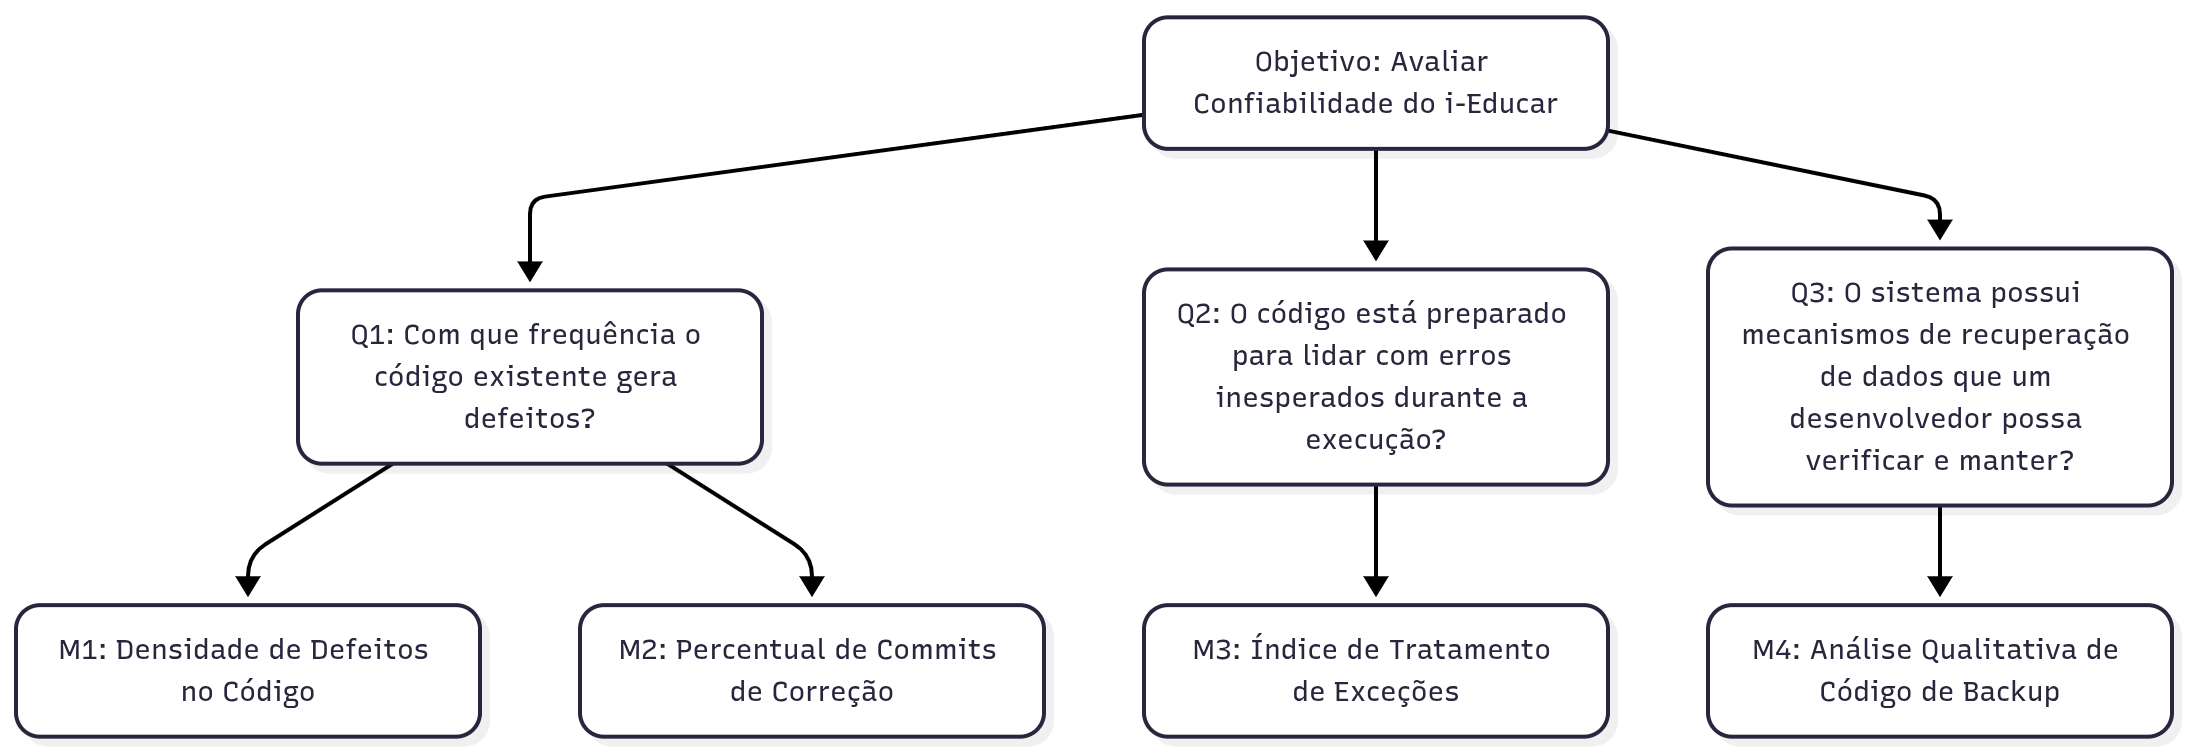
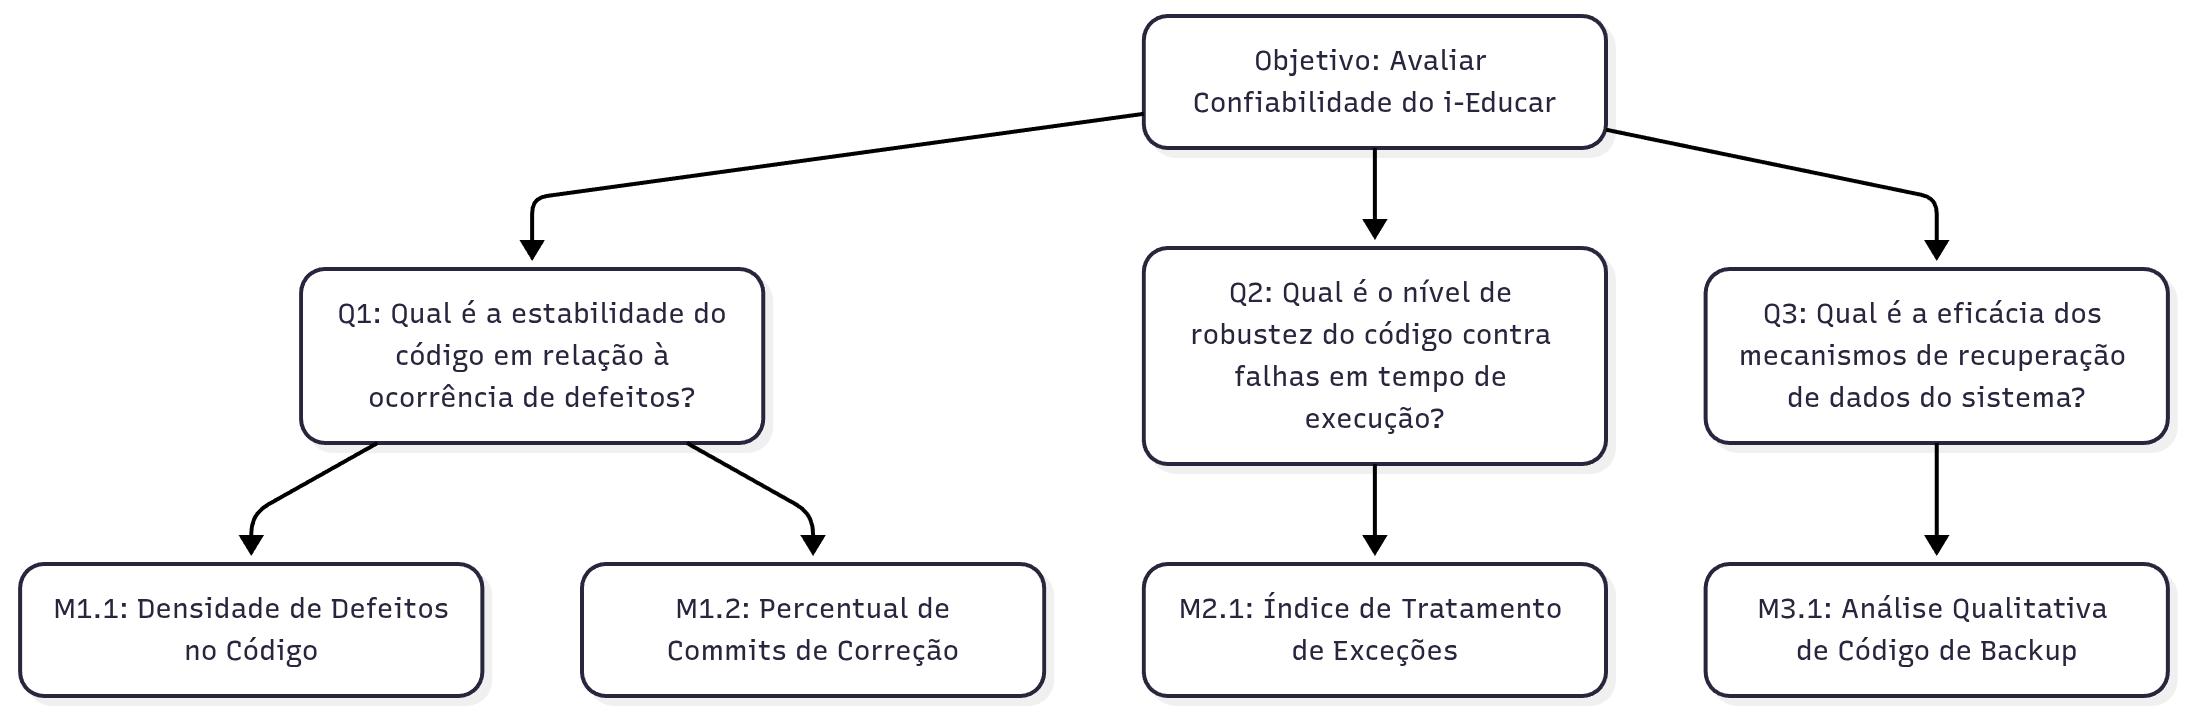
atualização da seção de confiabilidade: inclusão de critérios de julgamento e diagrama atualizado

diff --git a/docs/fase_2/gqm_confiabilidade.md b/docs/fase_2/gqm_confiabilidade.md
@@ -1,11 +1,29 @@
 ## Objetivo de Medição 1: Confiabilidade
 
-| **Analisar**          | o i-Educar |
-|------------------------|------------|
-| **Para o propósito de** | Avaliar|
-| **Com respeito a**     | Confiabilidade |
-| **Do ponto de vista da** | Comunidade de desenvolvedores |
-| **No contexto da**     | Disciplina de Qualidade de Software |
+<div align="center">
+  <table border="1" cellspacing="0" cellpadding="8" style="border-collapse: collapse; text-align: left;">
+    <tr>
+      <th><b>Analisar</b></th>
+      <td>o i-Educar</td>
+    </tr>
+    <tr>
+      <th><b>Para o propósito de</b></th>
+      <td>Avaliar</td>
+    </tr>
+    <tr>
+      <th><b>Com respeito a</b></th>
+      <td>Confiabilidade</td>
+    </tr>
+    <tr>
+      <th><b>Do ponto de vista da</b></th>
+      <td>Comunidade de desenvolvedores</td>
+    </tr>
+    <tr>
+      <th><b>No contexto da</b></th>
+      <td>Disciplina de Qualidade de Software 1 (FCTE - UnB)</td>
+    </tr>
+  </table>
+</div>
 
 <div align="center">
   <font size="4"><figcaption>Tabela 1: Objetivo de Medição: Confiabilidade</figcaption></font>
@@ -61,6 +79,12 @@ A professora achou que tinha muita coisa
         1. Listar todas as issues com a label `bug` via API do GitHub ou busca manual.
         2. Contar as linhas de código PHP (`.php`) para os módulos priorizados (Escola, Servidores, Educacenso) e para o restante do sistema separadamente, utilizando a ferramenta `cloc`.
         3. Aplicar a fórmula para os dois escopos (prioritários vs. não prioritários) e comparar os resultados para validar a **H1.1**.
+    * **Pontuação de Julgamento:** 
+
+        | **Excelente** | **Bom** | **Regular** | **Insatisfatório** |
+        |:--------------:|:--------:|:-------------:|:-------------------:|
+        | ≤ 1 bug/KLOC | >1 e ≤3 bugs/KLOC | >3 e ≤6 bugs/KLOC | >6 bugs/KLOC |
+
     * **Propósito:** Identificar se as áreas mais críticas do sistema são também as que concentram mais defeitos reportados.
 
 * **Métrica 1.2: Percentual de Commits de Correção**
@@ -72,6 +96,13 @@ A professora achou que tinha muita coisa
         2. Contar o número total de commits com `git log --oneline | wc -l`
         3. Contar o número de commits de correção com `git log --grep="fix\|bugfix\|corrige\|correção\|hotfix" --regexp-ignore-case --oneline | wc -l.`
         4. Aplicar a fórmula para validar a **H1.2**.
+
+    * **Pontuação de Julgamento:** 
+
+        | **Excelente** | **Bom** | **Regular** | **Insatisfatório** |
+        |:--------------:|:--------:|:-------------:|:-------------------:|
+        | ≤ 10% | >10% e ≤20% | >20% e ≤35% | >35% |
+
     * **Propósito:** Avaliar se o esforço de desenvolvimento é mais reativo (corrigindo falhas) do que proativo (desenvolvendo novas funcionalidades).
 
 **Questão 2: Tolerância a Falhas**
@@ -85,6 +116,12 @@ A professora achou que tinha muita coisa
         2. Nos diretórios dos módulos priorizados, executar scripts de busca (`grep` ou `ack`) para contar o número total de ocorrências dessas operações.
         3. Executar um segundo script para contar quantas dessas ocorrências estão sintaticamente dentro de um bloco `try { ... }`.
         4. Aplicar a fórmula para validar a **H2.1**.
+    * **Pontuação de Julgamento:** 
+
+        | **Excelente** | **Bom** | **Regular** | **Insatisfatório** |
+        |:--------------:|:--------:|:-------------:|:-------------------:|
+        | ≥ 90% | 70%–89% | 40%–69% | < 40% |
+
     * **Propósito:** Medir a robustez do código contra erros em tempo de execução.
 
 **Questão 3: Recuperabilidade**
@@ -102,14 +139,76 @@ A professora achou que tinha muita coisa
             * **Configuração:** As configurações críticas (ex: caminhos de backup, credenciais) são externalizadas e não "hard-coded"?
             * **Testabilidade:** A estrutura do código permite a criação de testes unitários ou de integração?
         4. A pontuação final (0 a 10) será a soma dos pontos do checklist, usada para validar a **H3.1**.
+
+    * **Pontuação de Julgamento:** 
+
+        | **Excelente** | **Bom** | **Regular** | **Insatisfatório** |
+        |:--------------:|:--------:|:-------------:|:-------------------:|
+        | 9–10 | 7–8 | 4–6 | 0–3 |
+
     * **Propósito:** Avaliar a manutenibilidade e a confiabilidade percebida dos mecanismos de recuperação de dados do ponto de vista de um desenvolvedor.
+
+### Critérios para Julgamento
+
+* **Aceitável:** ≥ 70% das métricas classificadas como "Bom" ou "Excelente". O sistema demonstra robustez e previsibilidade.
+* **Parcialmente aceitável:** Entre 40% e 69% das métricas com nível "Regular" ou superior. O sistema funciona, mas pode apresentar instabilidades pontuais.
+* **Inaceitável:** > 30% das métricas atingindo o nível "Insatisfatório". A estabilidade do sistema é considerada crítica e propensa a falhas.
 
 ---
 
 ### Relação entre a Confiabilidade, Perguntas e Métricas
 
-![Relação entre a Confiabilidade, Perguntas e Métricas](../assets/diagrama_confiabilidade.png)
 
 <div align="center">
-  <font size="4"><figcaption>Figura 2: Diagrama ilustrando a relação entre a característica de Confiabilidade, as perguntas formuladas e as métricas definidas na abordagem GQM.</figcaption></font>
+  <table border="1" cellspacing="0" cellpadding="8" style="border-collapse: collapse; text-align: left;">
+    <tr>
+      <th><b>Questão</b></th>
+      <th><b>Métricas Simplificadas</b></th>
+      <th><b>Tipo de Coleta</b></th>
+    </tr>
+    <tr>
+      <td><b>Maturidade</b><br>Qual é a estabilidade do código em relação a defeitos?</td>
+      <td>
+        - Densidade de defeitos (issues "bug" por KLOC)<br>
+        - Percentual de commits de correção (mensagens com fix/corrige/bugfix)
+      </td>
+      <td>
+        - GitHub issues + contagem de linhas com cloc (ou similar)<br>
+        - Histórico de commits via git log com filtros/regex
+      </td>
+    </tr>
+    <tr>
+      <td><b>Tolerância a Falhas</b><br>Qual é o nível de robustez contra falhas em tempo de execução?</td>
+      <td>
+        - Índice de tratamento de exceções (% operações I/O críticas dentro de try-catch)
+      </td>
+      <td>
+        - Análise estática / scripts (grep/ack) para localizar operações críticas e verificar blocos try-catch<br>
+        - Revisão manual de trechos críticos quando necessário
+      </td>
+    </tr>
+    <tr>
+      <td><b>Recuperabilidade</b><br>Qual é a eficácia dos mecanismos de recuperação de dados?</td>
+      <td>
+        - Pontuação qualitativa das rotinas de backup (checklist, escala 0–10)
+      </td>
+      <td>
+        - Inspeção manual do código e documentação aplicando checklist de avaliação (documentação, clareza, tratamento de erros, configuração, testabilidade)
+      </td>
+    </tr>
+  </table>
+
+  <div style="margin-top: 8px; text-align: center;">
+    <font size="4"><figcaption>Tabela 2: Questões e Métricas Simplificadas</figcaption></font>
+  </div>
+</div>
+
+---
+
+### Diagrama GQM - Confiabilidade (Representação Estrutural)
+
+![Relação entre a Confiabilidade, Perguntas e Métricas](../assets/diagrama_confiabilidade.png)
+
+<div style="margin-top: 8px; text-align: center;">
+  <font size="4"><figcaption>Figura 2: Diagrama GQM - Confiabilidade. Autor: <a href="http://github.com/manuvaladares">Manuela Valadares</a></figcaption></font>
 </div>

diff --git a/docs/fase_2/conclusao.md b/docs/fase_2/conclusao.md
@@ -29,3 +29,4 @@
 | `1.2`  | 12/10/2025 | Separação do documento e adição da seção Segurança (objetivos)  | [Zenilda Vieira](https://github.com/ZenildaVieira)         |       |
 | `1.3`  | 12/10/2025 | Criação do documento de manutenabilidade  | [Carla Clementino](https://github.com/ccarlaa)         |       |
 | `1.4`  | 13/10/2025 | Inclusão do diagrama de segurança  |  [Zenilda Vieira](https://github.com/ZenildaVieira)        |       |
+| `1.5`  | 21/10/2025 | Ajuste das métricas e perguntas do objetivo de confiabilidade, ateração da figura e inclusão dos critérios de julgamento. |  [Manuella Valadares](https://github.com/manuvaladares)        |       |
